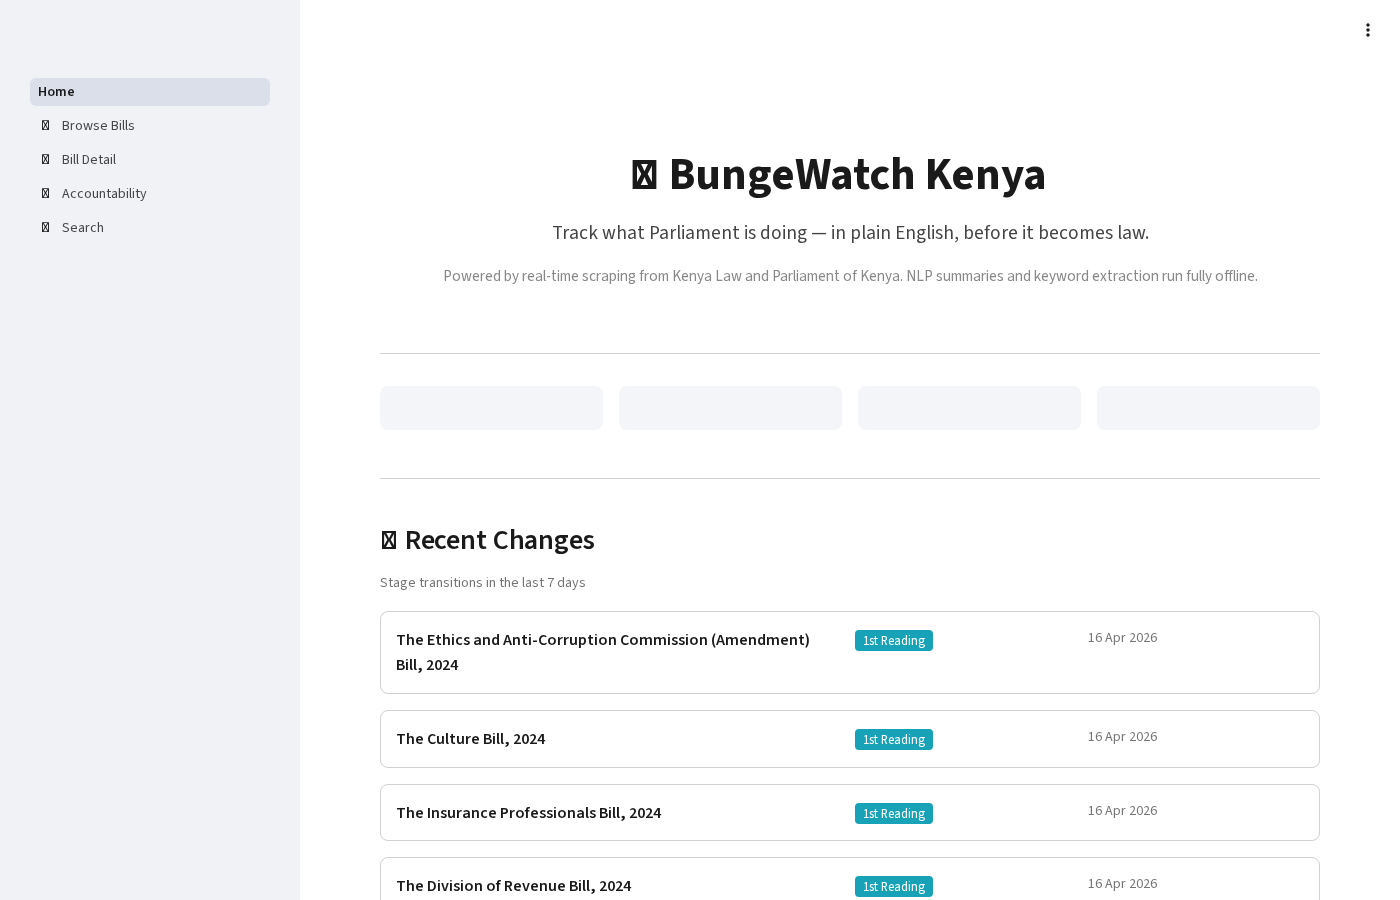
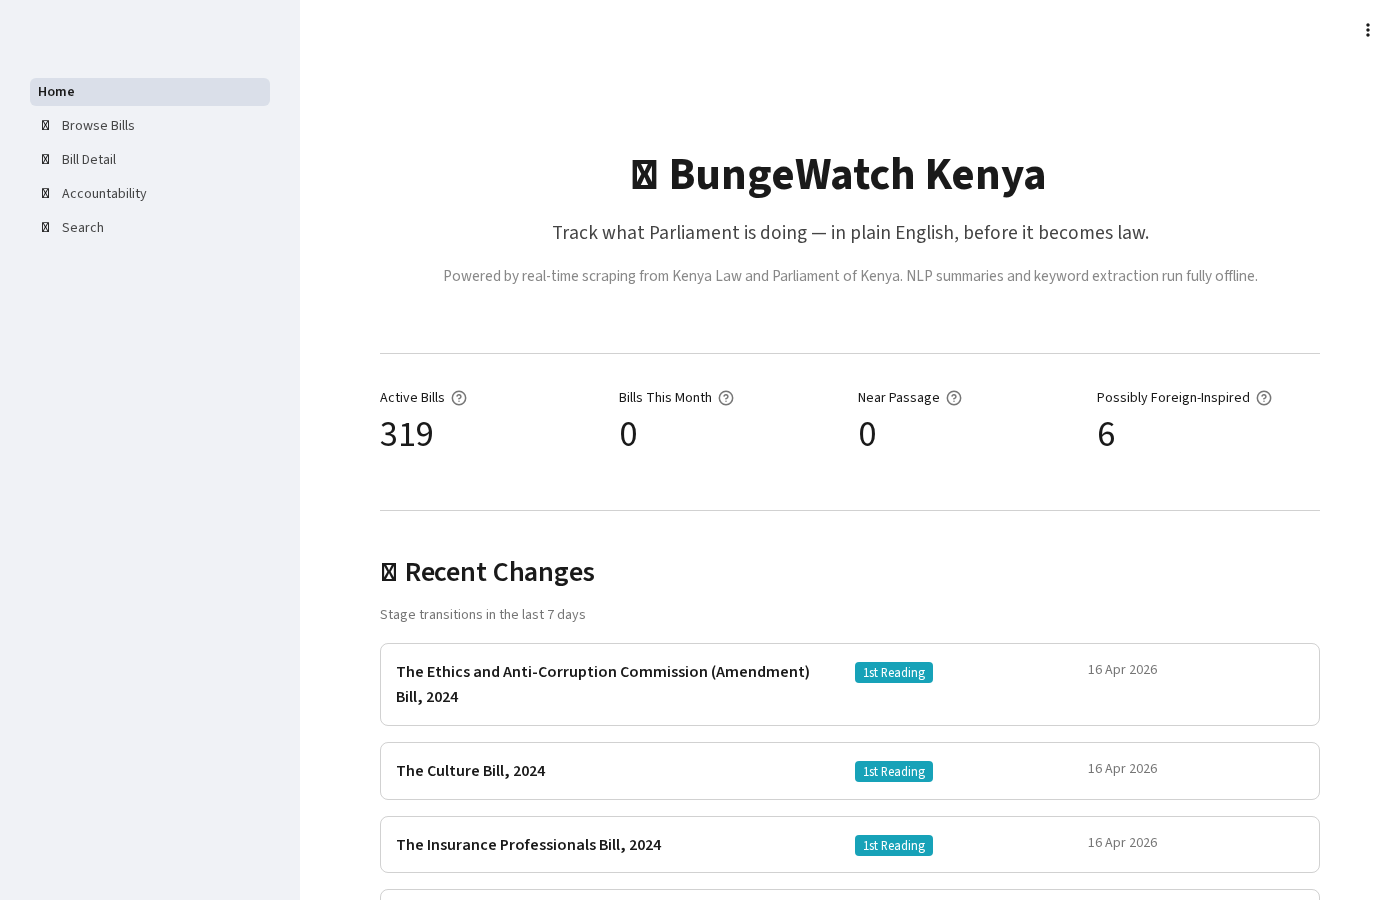
Lower foreign_inspired threshold to 20 to show 6 matching bills; update home screenshot

diff --git a/streamlit_app/utils/db.py b/streamlit_app/utils/db.py
@@ -144,7 +144,7 @@ def get_dashboard_stats() -> dict:
                     (SELECT count(*) FROM bills
                      WHERE EXISTS (
                          SELECT 1 FROM bill_foreign_matches bfm
-                         WHERE bfm.bill_id = bills.bill_id AND bfm.similarity_score >= 40
+                         WHERE bfm.bill_id = bills.bill_id AND bfm.similarity_score >= 20
                      ))                                                             AS foreign_inspired
             """)
         ).fetchone()
